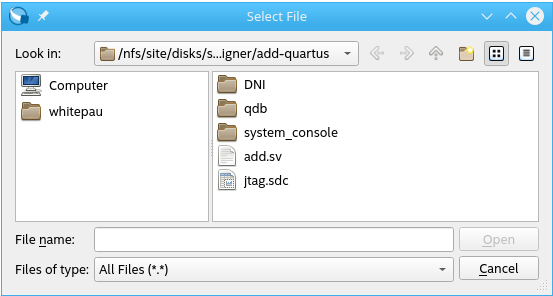
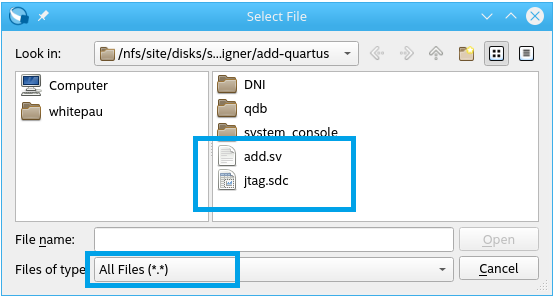
update readme as per discussion with Chew Yee

Changed region(s): [[0.1537, 0.8209, 0.4611, 0.973], [0.3382, 0.4561, 0.6456, 0.7297]]

diff --git a/DirectProgramming/C++SYCL_FPGA/Tutorials/Tools/experimental/platform_designer/README.md b/DirectProgramming/C++SYCL_FPGA/Tutorials/Tools/experimental/platform_designer/README.md
@@ -55,7 +55,7 @@ This example is intended for users interested in creating standalone modules tha
 
 ### Board-specific Considerations
 
-This design is intended to work with the Intel® Arria® 10 SX SoC Development Kit. The board-specific configurations that you should specify in Intel® Quartus® Prime are as follows:
+This design is intended to work with the Intel® Arria® 10 SX SoC Development Kit. These board-specific configurations are not guaranteed to work with different boards:
 1. Choose `10AS066N3F40E2SG` device to match the devkit
 2. Choose pin `PIN_AM10` to drive the `i_clk` signal
 3. Choose pin `PIN_AR23` to drive the `fpga_led` signal
@@ -102,7 +102,7 @@ Follow these steps to compile and test the design:
    > nmake fpga_ip_export
    ```
 
-2. **From the same terminal**, launch the Intel® Quartus® Prime Pro Edition GUI, and create a new Intel® Quartus® Prime project using the 'New Project' wizard. 
+2. **From the same terminal**, prepare a project directory for the Intel® Quartus® Prime project and copy the source files `add.sv` and `jtag.sdc` from the `add-quartus-sln` into it. Then launch the Intel® Quartus® Prime Pro Edition GUI, and create a new Intel® Quartus® Prime project using the 'New Project' wizard.
 
 > **Note**: You may confirm your Intel® Quartus® Prime project settings by comparing with the sample Intel® Quartus® Prime project included in the `add-quartus-sln` directory.
 
@@ -111,6 +111,8 @@ Follow these steps to compile and test the design:
    ```
    $> cd ../../
    $> mkdir add-quartus
+   $> cp add-quartus/add.sv add-quartus
+   $> cp add-quartus/jtag.sdc add-quartus
    $> cd add-quartus
    $> quartus
    ```
@@ -120,11 +122,13 @@ Follow these steps to compile and test the design:
    ```
    > cd ..\..\
    > mkdir add-quartus
+   > xcopy add-quartus\add.sv add-quartus
+   > xcopy add-quartus\jtag.sdc add-quartus
    > cd add-quartus
    > quartus.exe
    ```
 
-   1. Set the project directory to be the `add-quartus` directory of this code sample.
+   1. Set the project directory to be the `add-quartus` directory.
 
    2. Set the top-level entity to be `add` to make project management easier.
 
@@ -184,13 +188,17 @@ Follow these steps to compile and test the design:
 
       ![](assets/open-platform-designer-button.png)
 
-      Create a new system by clicking the 'New Platform Designer System' button (![](assets/new-platform-designer-system-button.png)) and name it `add_kernel_wrapper.qsys`.
+   2. Create a new system by clicking the 'New Platform Designer System' button (![](assets/new-platform-designer-system-button.png)) and name it `add_kernel_wrapper.qsys`.
 
-      Configure the `Reset Bridge` IP as shown:
+   3. Disconnect the clock from the `Reset Bridge` IP:
+
+      ![](assets/disconnect-clock_mouse.png)
+
+   4. Configure the `Reset Bridge` IP as shown:
 
       ![](assets/reset-bridge.png)
 
-   2. Add the following IP to your system:
+   5. Add the following IP to your system:
 
       * Basic Functions > Bridges and Adaptors > Memory Mapped > **JTAG to Avalon Master Bridge Intel® FPGA IP**
 
@@ -198,7 +206,7 @@ Follow these steps to compile and test the design:
 
       ![](assets/add-ip-platform-designer.png)
 
-   3. Connect the modules as shown:
+   6. Connect the modules as shown:
 
       ![](assets/complete-system_platform-designer.png)
 
@@ -208,13 +216,13 @@ Follow these steps to compile and test the design:
       > 
       > ![](assets/fix-reset_n-platform-designer.png)
 
-   4. Save the system by clicking `File` > `Save`
+   7. Save the system by clicking `File` > `Save`
 
-   5. Generate the system so that it can be included in the Intel® Quartus® Prime project by clicking `Generate HDL...`
+   8. Generate the system so that it can be included in the Intel® Quartus® Prime project by clicking `Generate HDL...`
 
       ![](assets/generate-hdl.png)
    
-   6. Close Platform Designer. 
+   9. Close Platform Designer. 
    
 6. In the Intel® Quartus® Prime window, run Analysis and Elaboration by clicking 'Start Analysis and Elaboration'.
 
@@ -233,6 +241,10 @@ Follow these steps to compile and test the design:
       *Final pin planner configuration:*
 
       ![](assets/pins-from-design.png)
+
+      > **Note**: If you cannot see the pin details, click the `All Pins` button in the bottom left corner of the Pin Planner GUI.
+      > 
+      > ![](assets/all-pins.png)
 
 8. Add the timing constraints. 
 
